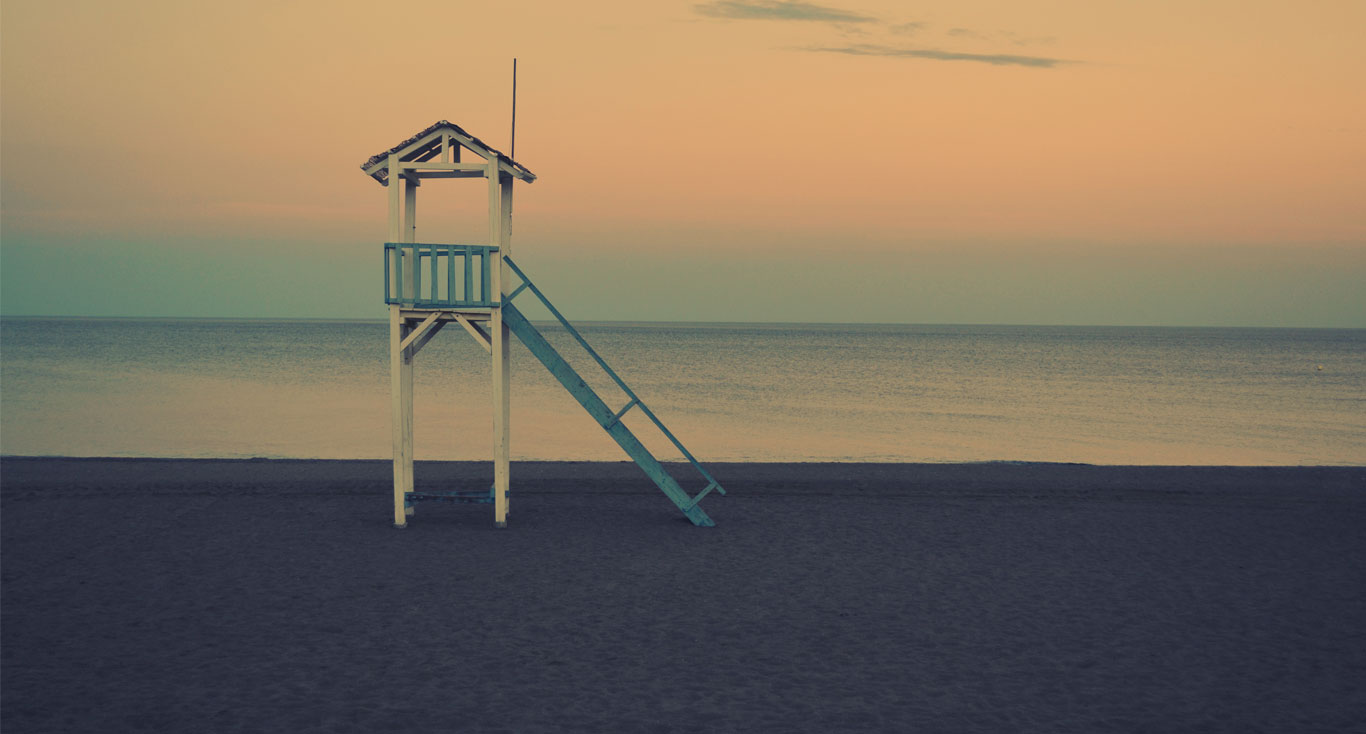
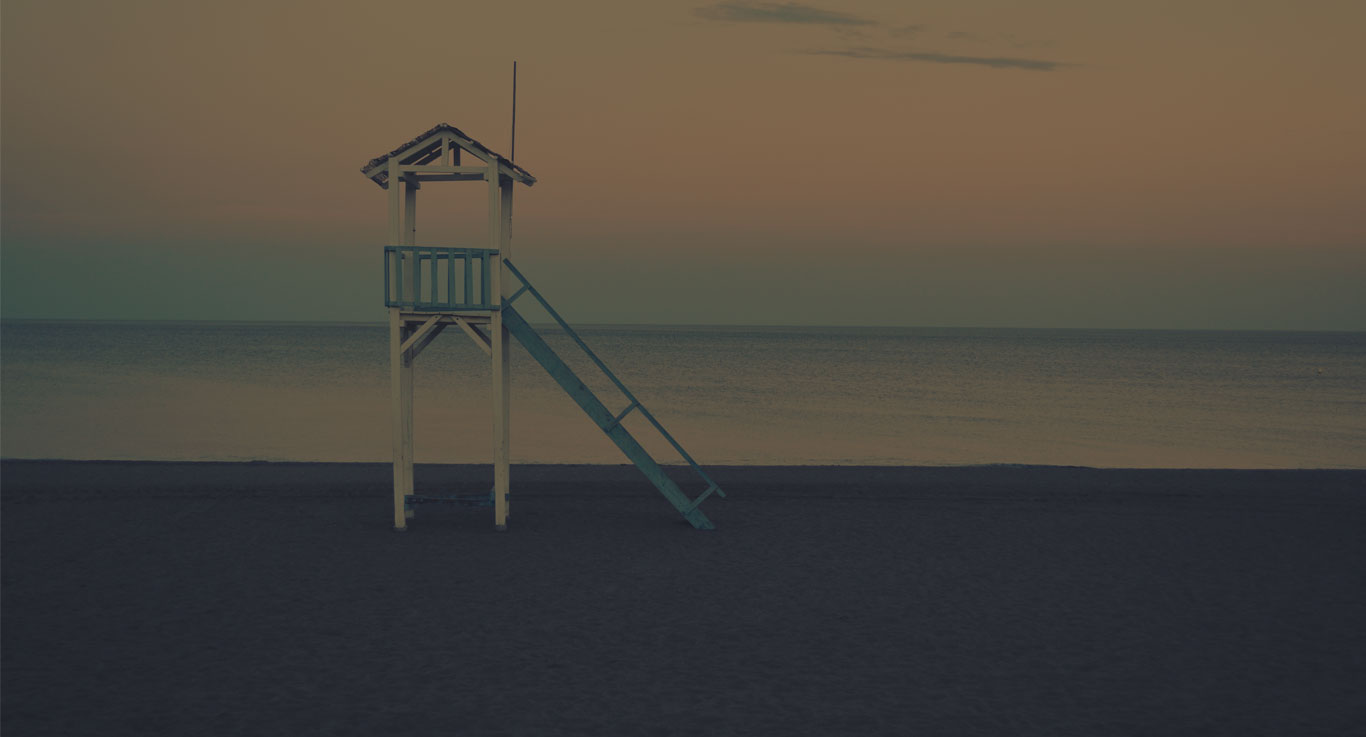
Some change to myProgect +2 sections

diff --git a/myProject/css/style.css b/myProject/css/style.css
@@ -40,6 +40,9 @@ a{
     width: 100%;
     margin: 0 auto;
 }
+.container__full-screen{
+    width: 100%;
+}
 .flexbox{
     display: flex;
 }
@@ -52,15 +55,30 @@ a{
     text-transform: uppercase;
     color: #2A313A;
     text-align: center;
+    margin-top: 80px;
 }
 .text{
     text-align: center;
+    margin: 40px auto 0;
+    color: #81868E;
+}
+.btn__link{
+    color: #2A313A;
+    width: 150px;
+    height: 40px;
+    text-align: center;
+    border: 1px solid #2A313A;
+    border-radius: 20px;
+    padding-top: 6px;
+    cursor: pointer;
+}
+.btn__link:hover{
+    background-color: #19BD9A;
 }
 
 /*----------------- Header -----------------------------*/
 .header{
     background-image: url(../img/header__bg.jpg);
-    filter: brightness(65%);
     height: 100vh;
     background-repeat: no-repeat;
     background-size: cover;
@@ -110,9 +128,9 @@ a{
     font-size: 16px;
     line-height: 28px;
     color: #fff;
-    margin: 0 auto;
     text-align: center;
     width: 600px;
+    margin: 0 auto;
 }
 .header__slider{
     width: 35px;
@@ -143,10 +161,6 @@ a{
 /*----------------- Bouncy -----------------------------*/
 .bouncy{
     background-color: #fff;
-    
-}
-.bouncy .container__small{
-    display: flex;
 }
 .bouncy__right{
     width: 50%;
@@ -161,34 +175,19 @@ a{
     letter-spacing: 1px;
 }
 .bouncy__btn{
-    margin-top: 35px;
-    color: #2A313A;
-    width: 150px;
-    height: 40px;
-    text-align: center;
-    border: 1px solid #2A313A;
-    border-radius: 20px;
-    padding-top: 6px;
-    cursor: pointer;
-}
-.bouncy__btn:hover{
-    background-color: #19BD9A;
+    margin: 35px 0 100px 0;
 }
 .bouncy__img{
     margin: 80px 0 0 160px;
-    
 }
 
 /*----------------- About -----------------------------*/
 .about{
     background-color: #F3F3F3;
-}
-.about__tittle{
-    margin-top: 80px;
+    margin-bottom: 100px;
 }
 .about__text{
     width: 460px;
-    margin: 40px auto 0;
 }
 .about__icons{
     display: flex;
@@ -227,7 +226,6 @@ a{
     font-size: 20px;
     color: #2A313A;
 }
-
 .creative__text{
     margin-top: 40px;
     display: flex;
@@ -243,11 +241,79 @@ a{
     flex: 0 0 60%;
     width: 60%;
     padding-left: 60px;
-
 }
 .green{
     color:#19BD9A;
 }
 .bold{
     font-weight: bold;
+}
+
+/*----------------- Works -----------------------------*/
+.works{
+    background-color: #fff;
+}
+.works__slider{
+    margin-top: 60px;
+}
+.works__banner{
+    background-image: url(../img/whiskey__banner.jpg);
+    background-repeat: no-repeat;
+    background-size: cover;
+    height: 320px;
+    flex: 0 0 50%;
+    width: 50%;
+}
+.works__next-vintage,
+.works__next-branding{
+    flex: 0 0 25%;
+    width: 25%;
+    position: relative;
+    background-repeat: no-repeat;
+    background-size: cover;
+    height: 320px;
+}
+.works__next-vintage{
+    background-image: url(../img/whiskey__slider-dark.jpg);
+}
+.works__next-vintage:hover{
+    background-image: url(../img/whiskey__slider.jpg);
+} 
+.works__next-branding{
+    background-image: url(../img/book__slider-dark.jpg);
+}
+.works__next-branding:hover{
+    background-image: url(../img/book__slider.jpg);
+} 
+.slider__text{
+    text-transform: uppercase;
+    font-family: 'Source Sans Pro';
+    font-size: 20px;
+    line-height: 12px;
+    font-weight: 300;
+    letter-spacing: 5px;
+    color: #fff;
+}
+.text__vintage,
+.text__branding{
+    position: absolute;
+    top: 45%;
+    left: 33%;
+}
+.slider__footer{
+    background-image: url(../img/slider__footer.jpg);
+    background-repeat: no-repeat;
+    background-size: cover;
+    height: 110px;
+    justify-content: space-evenly;
+    color: #fff;
+}
+.slider__footer-text{
+    margin-top: 40px;
+}
+.slider__footer-btn{
+    color: #fff;
+    border: 1px solid #fff;
+    border-radius: 20px;
+    margin-top: 30px;
 }

diff --git a/myProject/index.html b/myProject/index.html
@@ -47,11 +47,11 @@
     </section>
 
     <section class="bouncy">
-        <div class="container__small">
+        <div class="container__small flexbox">
             <div class="bouncy__right">
-                <div class="bouncy__tittle tittle">This is bouncy</div>
+                <div class="tittle bouncy__tittle">This is bouncy</div>
                 <div class="bouncy__text">At vero eos et accusamus et iusto odio dignissimos ducimus qui blanditiis praesentium voluptatum deleniti atque corrupti quos dolores et quas molestias excepturi sint occaecati cupiditate non provident, similique sunt in culpa qui officia deserunt mollitia animi, id est laborum et dolorum fuga. Et harum quidem rerum facilis est et expedita distinctio. </div>
-                <div class="bouncy__btn">Read More</div>
+                <div class="bouncy__btn btn__link">Read More</div>
             </div>
             <div class="bouncy__left">
                 <img class="bouncy__img" src="img/phone.jpg" alt="phone">
@@ -61,7 +61,7 @@
 
     <section class="about">
         <div class="container">
-            <div class="about__tittle tittle">Details about bouncy</div>
+            <div class="tittle about__tittle">Details about bouncy</div>
             <div class="about__text text">At vero eos et accusamus et iusto odio dignissimos ducimus qui blanditiis praesentium</div>
             <div class="about__icons">
                 <div class="heart heart--active">
@@ -84,8 +84,33 @@
         </div>
     </section>
 
-    <section></section>
+    <section class="works">
+        <div class="container__full-screen">
+            <div class="tittle works__tittle">featured projects
+            </div>
+            <div class="works__text text">At vero eos et accusamus et iusto odio         dignissimos ducimus qui blanditiis praesentium
+            </div>
+            <div class="works__slider flexbox">
+                <a href="#" class="works__banner"></a>
+                <a href="#" class="works__next-vintage flexbox">
+                    <p class="slider__text text__vintage">vintage</p>
+                </a>
+                <a href="#" class="works__next-branding flexbox">    
+                    <p class="slider__text text__branding">branding</p>
+                </a>
+            </div>
+            <div class="slider__footer flexbox">
+                <div class="slider__footer-text"> At vero eos et <span class="bold">accusamus</span> et iusto odio dignissimos ducimus qui blanditiis 
+                </div>
+                <a href="#" class="slider__footer-btn btn__link">Submit Now</a>
+            </div>
+        </div>
+    </section>
 
+    <section class="services">
+        <div class="tittle services__tittle">our services</div>
+        <div class="text services__text">At vero eos et accusamus et iusto odio dignissimos ducimus qui blanditiis praesentium</div>
+    </section>
     <script src="js/script.js"></script>
 </body>
 </html>
